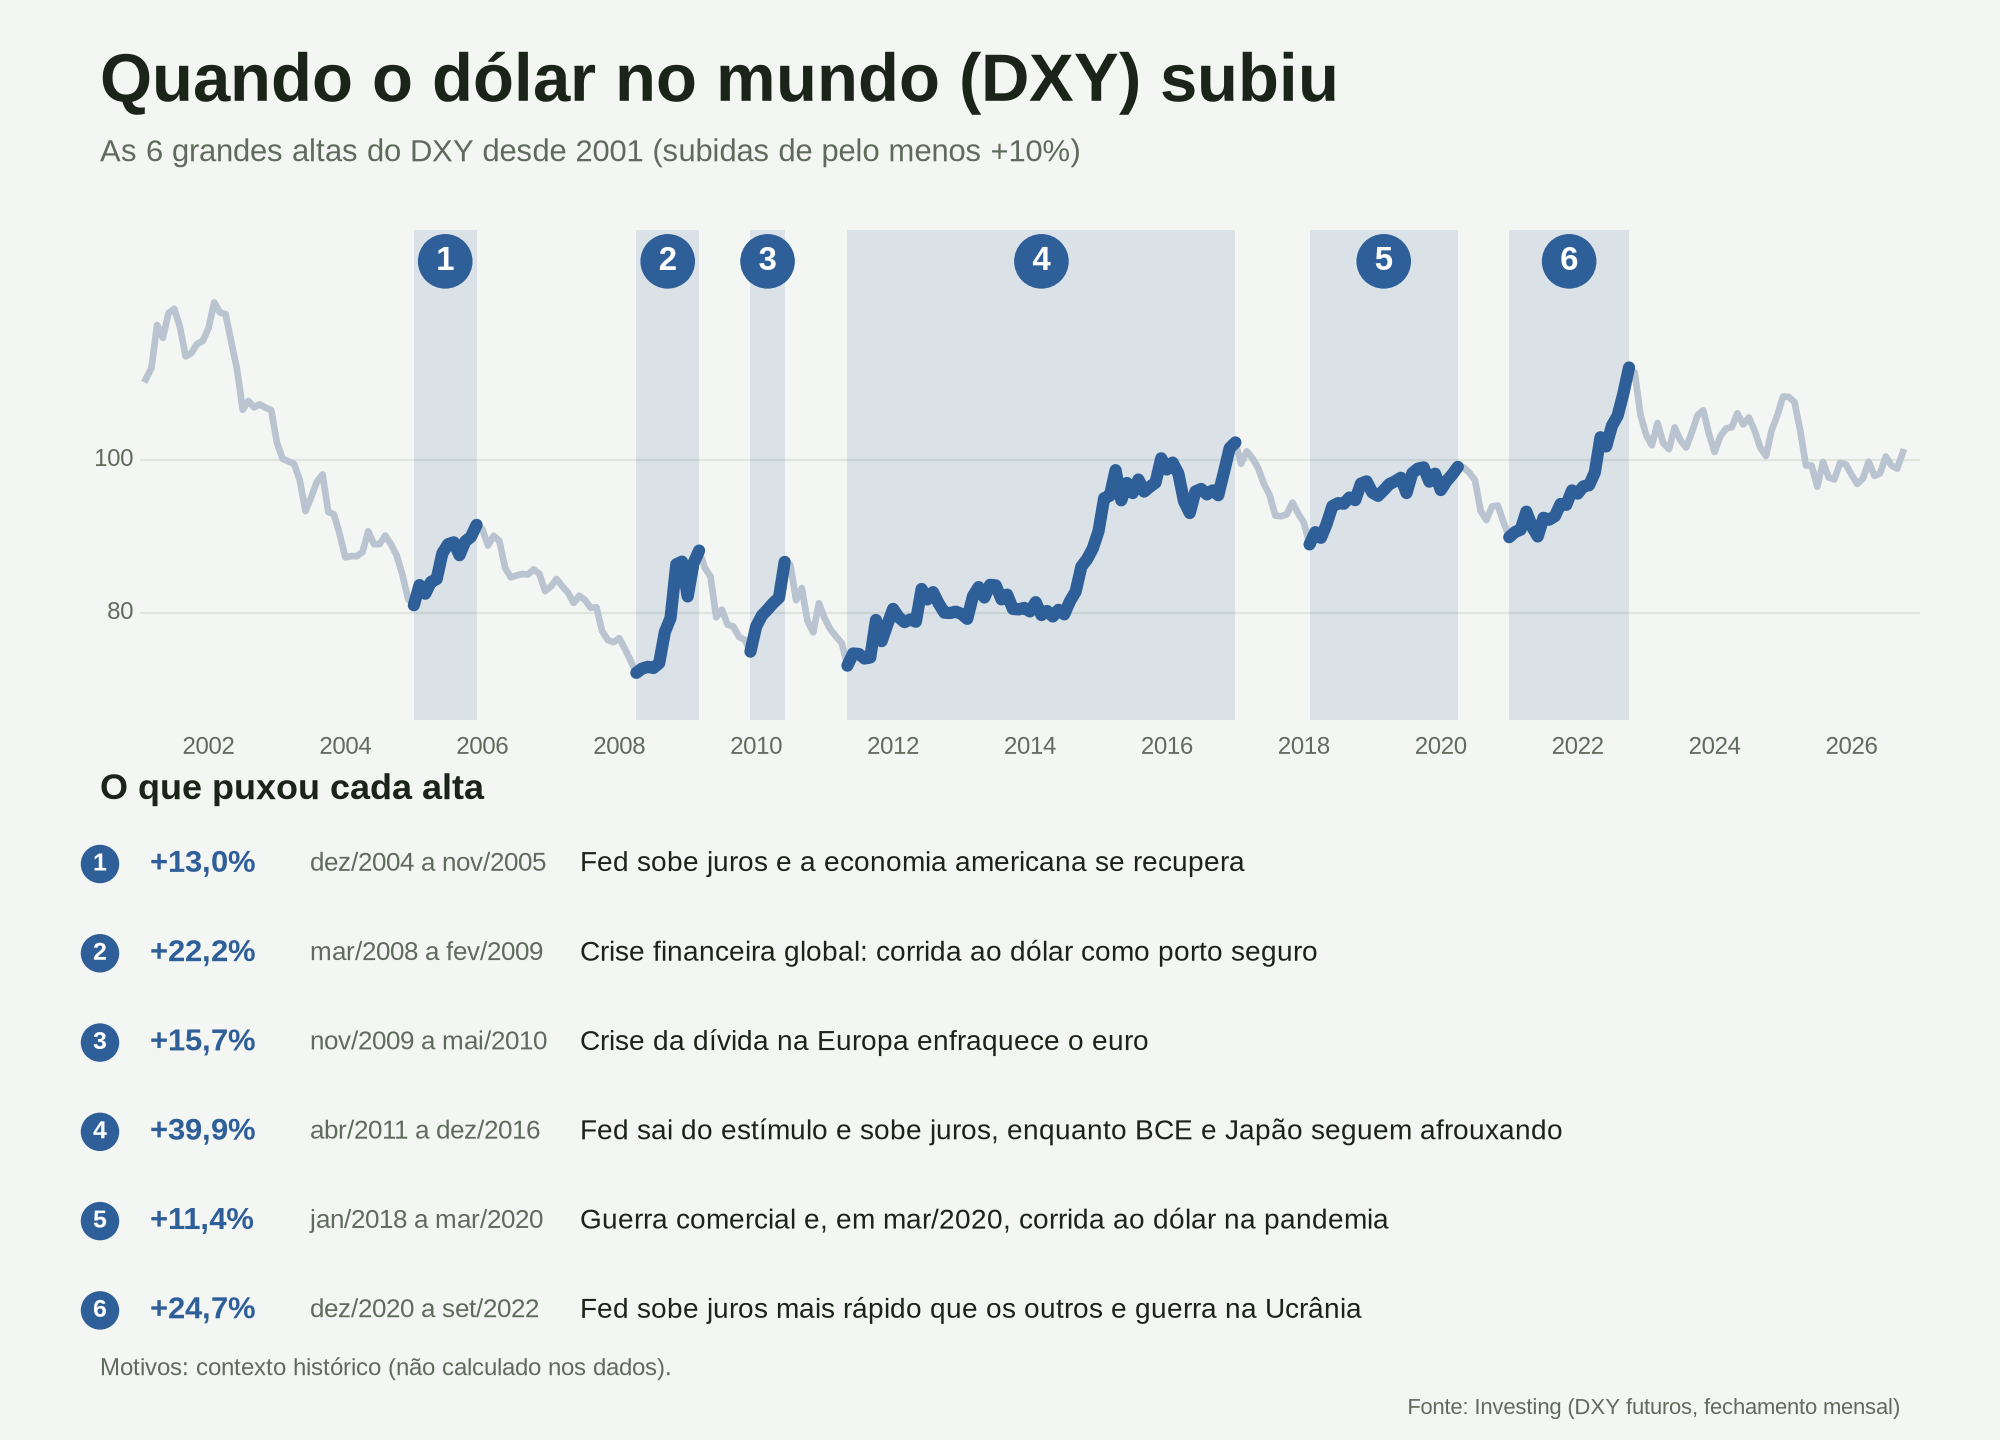
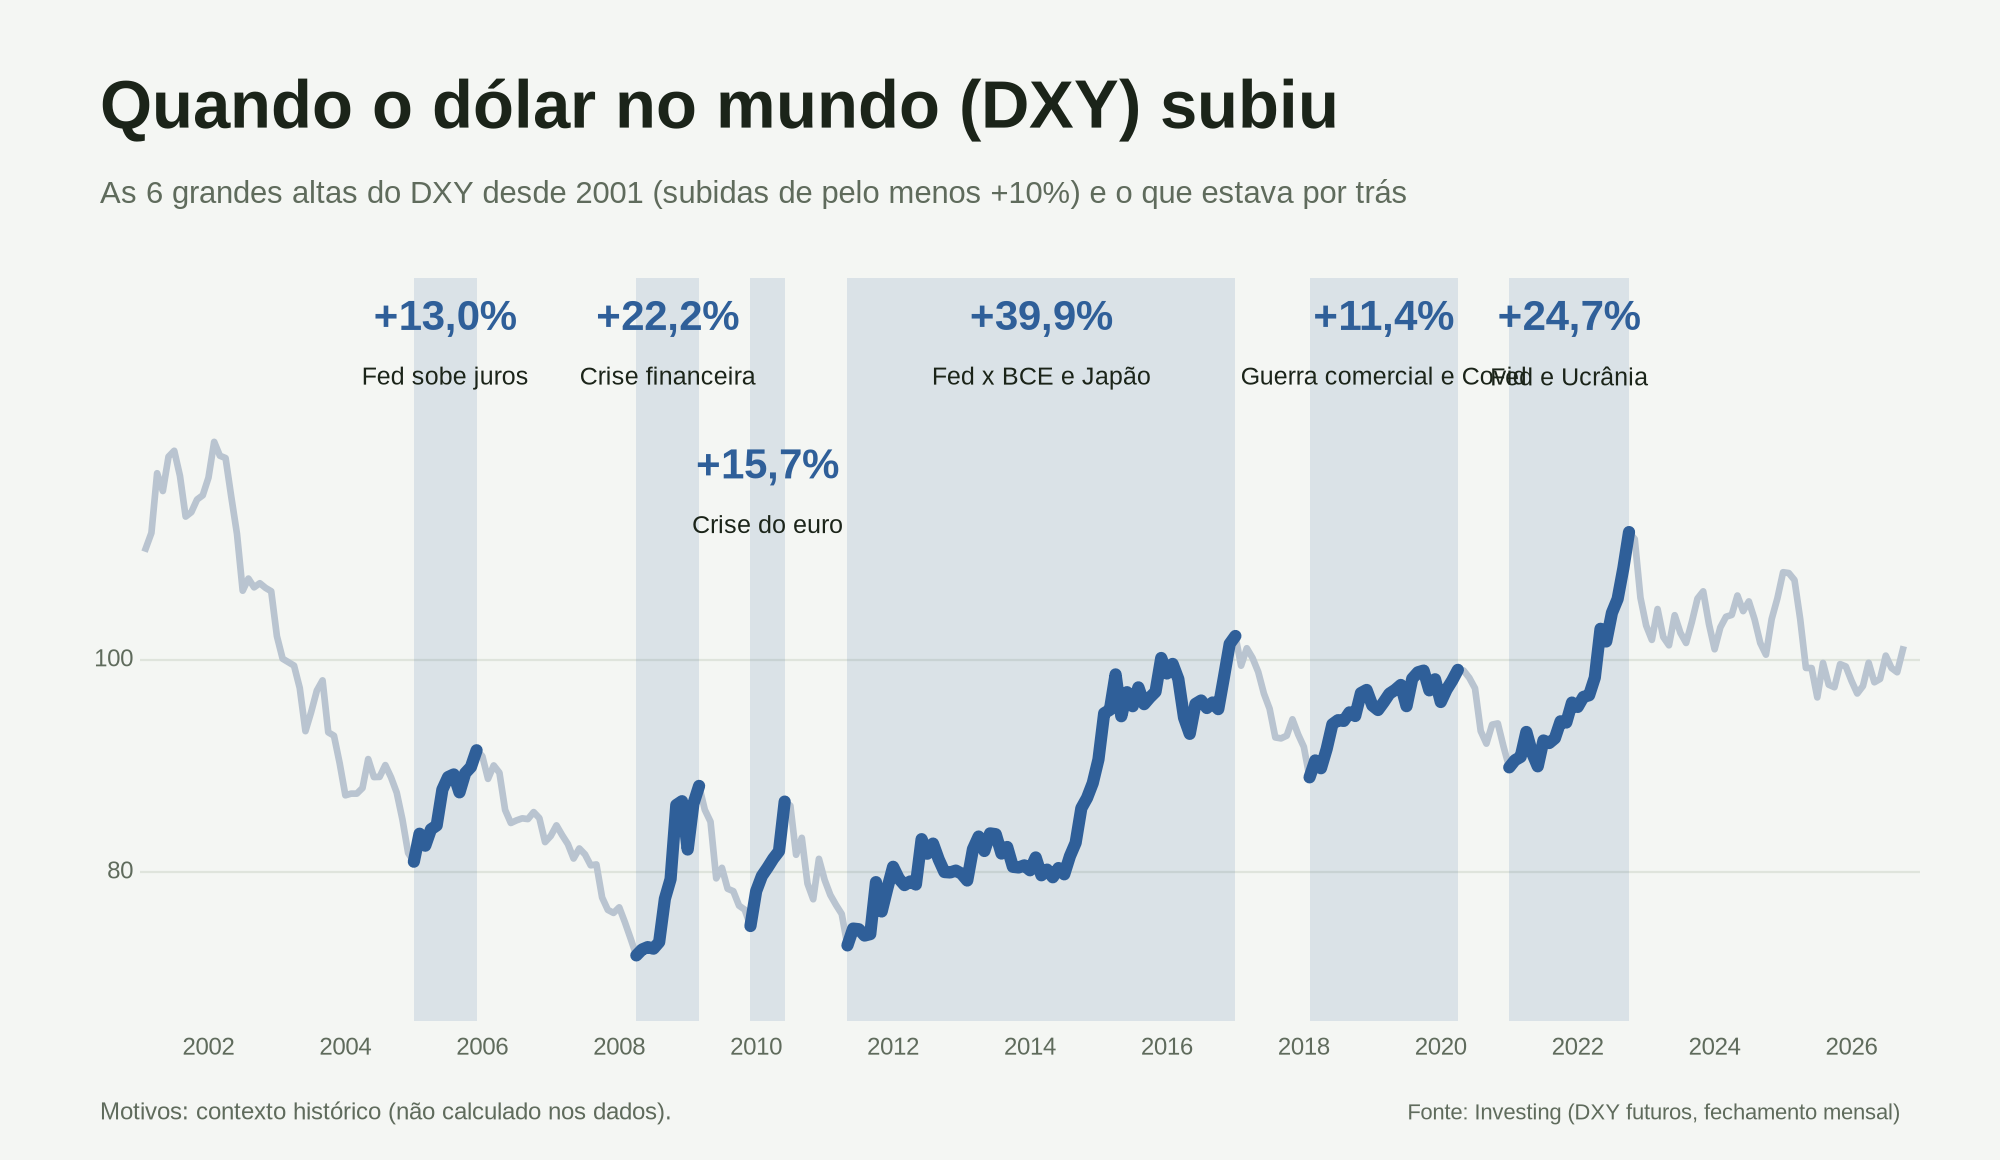
Mescla textos no gráfico das altas do DXY (rótulos curtos direto no gráfico)
Claude-Session: https://claude.ai/code/session_0199Y78iJYXbJq94ojXAjU9F

diff --git a/grafico_dxy_altas.py b/grafico_dxy_altas.py
@@ -27,35 +27,29 @@ plt.rcParams["font.family"] = "Liberation Sans" if any("Liberation Sans" in f.na
 rot = lambda v: f"{v:+.1f}%".replace(".", ",")
 tint = lambda c, a: matplotlib.colors.to_rgba(c, a)
 
-fig = plt.figure(figsize=(10, 7.2), dpi=200, facecolor=BG)
-fig.text(.05, .93, "Quando o dólar no mundo (DXY) subiu", color=INK, fontsize=24, fontweight="bold")
-fig.text(.05, .888, "As 6 grandes altas do DXY desde 2001 (subidas de pelo menos +10%)", color=MUTED, fontsize=11)
-ax = fig.add_axes([.07, .50, .89, .34], facecolor=BG)
+CURTO = {1: "Fed sobe juros", 2: "Crise financeira", 3: "Crise do euro", 4: "Fed x BCE e Japão",
+         5: "Guerra comercial e Covid", 6: "Fed e Ucrânia"}
+ALTURA = {1: 134, 2: 134, 3: 120, 4: 134, 5: 134, 6: 134}
+fig = plt.figure(figsize=(10, 5.8), dpi=200, facecolor=BG)
+fig.text(.05, .89, "Quando o dólar no mundo (DXY) subiu", color=INK, fontsize=24, fontweight="bold")
+fig.text(.05, .825, "As 6 grandes altas do DXY desde 2001 (subidas de pelo menos +10%) e o que estava por trás", color=MUTED, fontsize=11)
+ax = fig.add_axes([.07, .12, .89, .64], facecolor=BG)
 xs = [xm(k) for k in ks]
 ax.plot(xs, [dxy[k] for k in ks], color=GLINE, lw=2.4, zorder=2)
-ax.set_xlim(2001, 2027); ax.set_ylim(66, 130)
+ax.set_xlim(2001, 2027); ax.set_ylim(66, 136)
 ax.set_yticks([])
 for sp in ax.spines.values(): sp.set_visible(False)
 for v in (80, 100): ax.axhline(v, color=GRID, lw=.8, zorder=0); ax.text(2000.9, v, str(v), ha="right", va="center", fontsize=8.5, color=MUTED)
 ax.set_xticks(range(2002, 2027, 2)); ax.set_xticklabels([str(y) for y in range(2002, 2027, 2)], fontsize=8.5, color=MUTED)
 ax.tick_params(length=0, pad=6)
-rows = []
 for i, (a, b, motivo) in enumerate(ALTAS, 1):
     v = 100 * (dxy[b] / dxy[a] - 1)
     ax.axvspan(xm(a), xm(b), color=tint(BLUE, .13), lw=0, zorder=0)
     kk = [k for k in ks if a <= k <= b]
     ax.plot([xm(k) for k in kk], [dxy[k] for k in kk], color=BLUE, lw=4.4, solid_capstyle="round", zorder=4)
-    ax.text((xm(a) + xm(b)) / 2, 128, str(i), ha="center", va="top", fontsize=12, fontweight="bold", color="white",
-            bbox=dict(boxstyle="circle,pad=.35", fc=BLUE, ec="none"))
-    rows.append((i, a, b, v, motivo))
-fig.text(.05, .445, "O que puxou cada alta", color=INK, fontsize=13, fontweight="bold")
-y = .400
-for i, a, b, v, motivo in rows:
-    fig.text(.05, y, str(i), color="white", fontsize=9, fontweight="bold", ha="center", va="center", bbox=dict(boxstyle="circle,pad=.3", fc=BLUE, ec="none"))
-    fig.text(.075, y, rot(v), color=BLUE, fontsize=11, fontweight="bold", va="center")
-    fig.text(.155, y, f"{MES[a[1]]}/{a[0]} a {MES[b[1]]}/{b[0]}", color=MUTED, fontsize=9.5, va="center")
-    fig.text(.29, y, motivo, color=INK, fontsize=10, va="center")
-    y -= .062
-fig.text(.05, .045, "Motivos: contexto histórico (não calculado nos dados).", color=MUTED, fontsize=8.5)
-fig.text(.95, .018, "Fonte: Investing (DXY futuros, fechamento mensal)", color=MUTED, fontsize=8, ha="right")
+    m = (xm(a) + xm(b)) / 2; yt = ALTURA[i]
+    ax.text(m, yt, rot(v), ha="center", va="top", fontsize=15, fontweight="bold", color=BLUE)
+    ax.text(m, yt - 6.3, CURTO[i], ha="center", va="top", fontsize=9, color=INK)
+fig.text(.05, .035, "Motivos: contexto histórico (não calculado nos dados).", color=MUTED, fontsize=8.5)
+fig.text(.95, .035, "Fonte: Investing (DXY futuros, fechamento mensal)", color=MUTED, fontsize=8, ha="right")
 fig.savefig("grafico_dxy_altas.png", facecolor=BG); plt.close(fig)
